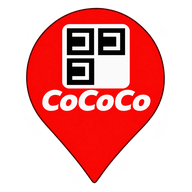
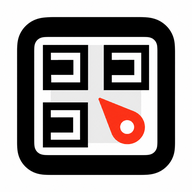
Add files via upload

diff --git a/index.html b/index.html
@@ -8,9 +8,9 @@
   <meta name="apple-mobile-web-app-status-bar-style" content="default">
   <meta name="apple-mobile-web-app-title" content="ここコード">
   <link rel="manifest" href="manifest.webmanifest">
-  <link rel="icon" type="image/png" sizes="192x192" href="icon-192.png?v=2.00">
-  <link rel="shortcut icon" type="image/png" href="icon-192.png?v=2.00">
-  <link rel="apple-touch-icon" href="icon-192.png?v=2.00">
+  <link rel="icon" type="image/png" sizes="192x192" href="icon-192.png?v=2.03">
+  <link rel="shortcut icon" type="image/png" href="icon-192.png?v=2.03">
+  <link rel="apple-touch-icon" href="icon-192.png?v=2.03">
   <link rel="stylesheet" href="https://unpkg.com/leaflet@1.9.4/dist/leaflet.css">
   <title>ここコード</title>
   <style>
@@ -209,7 +209,7 @@
     <header>
       <div>
         <h1>ここコード</h1>
-        <div class="sub">IDを探さなくてよくする入口</div>
+        <div class="sub">ここで使うコードを、すぐに。</div>
       </div>
       <div class="toolbar">
         <button class="btn" id="dataBtn">設定</button>
@@ -237,7 +237,7 @@
       <main id="listRight" class="list" aria-label="ID一覧 右側"></main>
 
       <div class="footnote">
-        v2.00 — 名称を「ここコード」に変更し、新しいアイコンを採用。
+        v2.03 — 3つの「コ」と赤い雫型ピンのアイコンを採用。
       </div>
     </div>
   </div>
@@ -268,7 +268,7 @@
         <input id="importFileInput" type="file" accept="application/json,.json" class="hidden">
         <div class="notice">読み込みは現在の登録データをすべて置き換えます。読み込み前に現在データの保存を推奨します。</div>
       </div>
-      <div class="app-version">ここコード v2.00</div>
+      <div class="app-version">ここコード v2.03</div>
       <div class="actions">
         <button class="btn" id="closeDataBtn" type="button" style="grid-column:1 / -1;">閉じる</button>
       </div>

diff --git a/sw.js b/sw.js
@@ -1,5 +1,5 @@
-const CACHE="id-portal-v2.00";
-const APP=["./","./index.html","./manifest.webmanifest","./icon-192.png?v=2.00","./icon-512.png?v=2.00",
+const CACHE="id-portal-v2.03";
+const APP=["./","./index.html","./manifest.webmanifest","./icon-192.png?v=2.03","./icon-512.png?v=2.03",
 "https://cdnjs.cloudflare.com/ajax/libs/qrcode-generator/1.4.4/qrcode.min.js",
 "https://cdn.jsdelivr.net/npm/jsqr@1.4.0/dist/jsQR.js",
 "https://cdn.jsdelivr.net/npm/jsbarcode@3.11.6/dist/JsBarcode.all.min.js",
